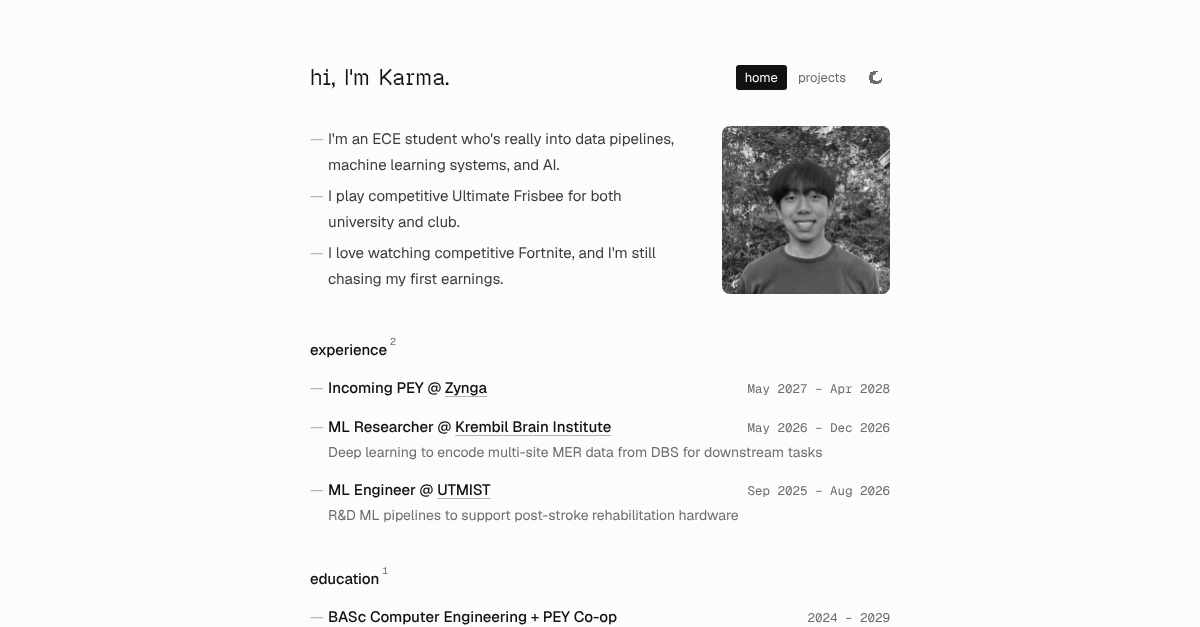
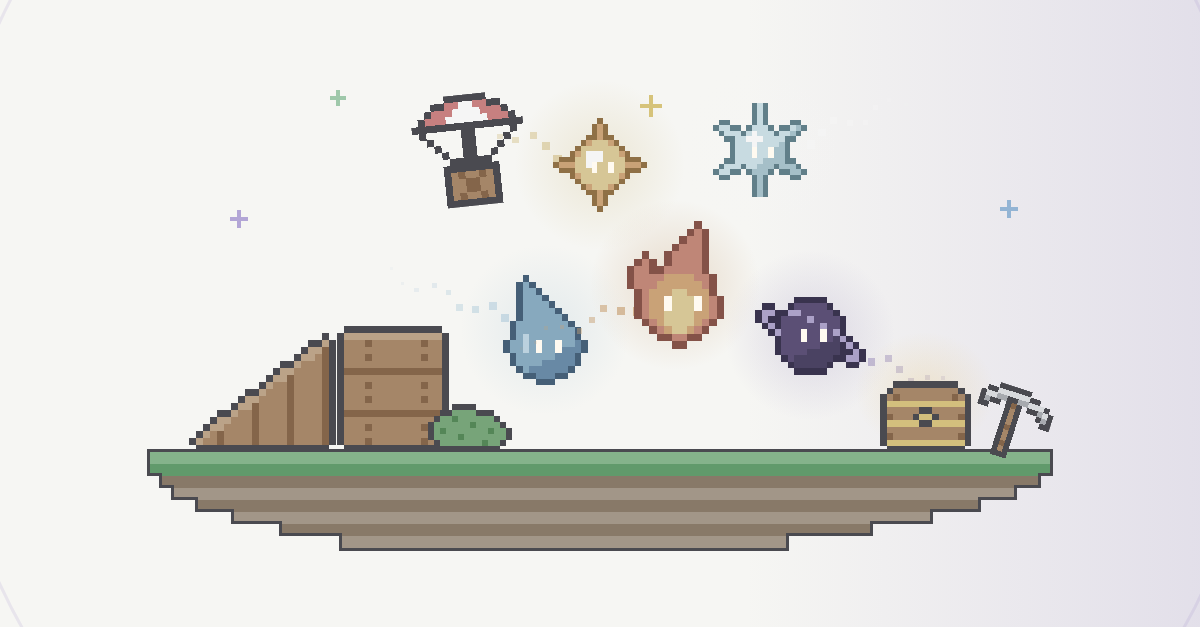
Revert "Use a home page screenshot as the link-preview image"
This reverts commit 2dabdb265f16abcbeb107d6fa098a3bd324717b1.

diff --git a/index.html b/index.html
@@ -13,7 +13,7 @@
     <meta property="og:image" content="https://karma-namgyal.vercel.app/assets/og-image.png" />
     <meta property="og:image:width" content="1200" />
     <meta property="og:image:height" content="627" />
-    <meta property="og:image:alt" content="Karma Namgyal's portfolio home page: intro, photo and experience." />
+    <meta property="og:image:alt" content="Pixel-art elemental wisps glowing above a floating island with wooden build pieces, a loot chest and a pickaxe, while a supply drop parachutes in." />
     <meta name="twitter:card" content="summary_large_image" />
     <meta name="twitter:image" content="https://karma-namgyal.vercel.app/assets/og-image.png" />
     <link rel="icon" href="./favicon-star.svg" type="image/svg+xml" />

diff --git a/projects.html b/projects.html
@@ -13,7 +13,7 @@
     <meta property="og:image" content="https://karma-namgyal.vercel.app/assets/og-image.png" />
     <meta property="og:image:width" content="1200" />
     <meta property="og:image:height" content="627" />
-    <meta property="og:image:alt" content="Karma Namgyal's portfolio home page: intro, photo and experience." />
+    <meta property="og:image:alt" content="Pixel-art elemental wisps glowing above a floating island with wooden build pieces, a loot chest and a pickaxe, while a supply drop parachutes in." />
     <meta name="twitter:card" content="summary_large_image" />
     <meta name="twitter:image" content="https://karma-namgyal.vercel.app/assets/og-image.png" />
     <link rel="icon" type="image/svg+xml" href="./favicon-star.svg" />
